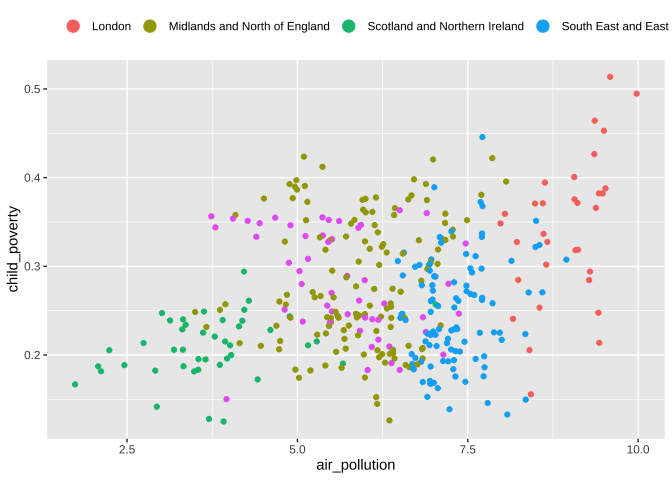
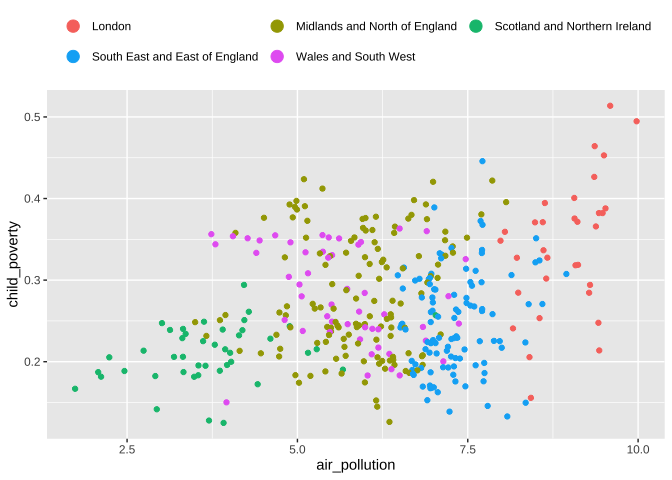
Two row legend

diff --git a/visualising-data-with-ggplot2/script.md b/visualising-data-with-ggplot2/script.md
@@ -25,6 +25,21 @@ published by [DEFRA](https://uk-air.defra.gov.uk/data/pcm-data).
 library(tidyverse)
 ```
 
+    ## ── Attaching packages ──────────────────────────────────────────── tidyverse 1.3.0 ──
+
+    ## ✓ ggplot2 3.3.6     ✓ purrr   0.3.4
+    ## ✓ tibble  3.1.6     ✓ dplyr   1.0.8
+    ## ✓ tidyr   1.2.0     ✓ stringr 1.4.0
+    ## ✓ readr   1.4.0     ✓ forcats 0.5.1
+
+    ## Warning: package 'tidyr' was built under R version 4.0.5
+
+    ## Warning: package 'dplyr' was built under R version 4.0.5
+
+    ## ── Conflicts ─────────────────────────────────────────────── tidyverse_conflicts() ──
+    ## x dplyr::filter() masks stats::filter()
+    ## x dplyr::lag()    masks stats::lag()
+
 ## Read data
 
 ``` r
@@ -98,6 +113,11 @@ df %>%
 
 ``` r
 library(sf)
+```
+
+    ## Linking to GEOS 3.8.1, GDAL 3.1.4, PROJ 6.3.1
+
+``` r
 lad <- st_read("data/local_authority_districts.geojson")
 ```
 
@@ -182,6 +202,13 @@ gg +
 
 ``` r
 library(showtext)
+```
+
+    ## Loading required package: sysfonts
+
+    ## Loading required package: showtextdb
+
+``` r
 # font_families_google() 
 font_add_google("Open Sans")
 showtext_auto()
@@ -218,7 +245,20 @@ gg +
 
 ``` r
 library(scales)
+```
 
+    ## 
+    ## Attaching package: 'scales'
+
+    ## The following object is masked from 'package:purrr':
+    ## 
+    ##     discard
+
+    ## The following object is masked from 'package:readr':
+    ## 
+    ##     col_factor
+
+``` r
 gg + scale_y_continuous(labels = percent_format(accuracy = 1),
                         limits = c(0,0.6))
 ```
@@ -261,7 +301,9 @@ gg +
   theme(legend.position = "top",
         legend.justification = "left",
         legend.key = element_blank()) +
-  guides(colour = guide_legend(override.aes = list(size = 4)))
+  guides(colour = guide_legend(
+    nrow = 2, byrow = TRUE,
+    override.aes = list(size = 4)))
 ```
 
 ![](outputs/plot16.png)<!-- -->
@@ -321,6 +363,6 @@ gg +
     visualization](https://r4ds.had.co.nz/data-visualisation.html)
 -   [A ggplot2 Tutorial for Beautiful Plotting in
     R](https://www.cedricscherer.com/2019/08/05/a-ggplot2-tutorial-for-beautiful-plotting-in-r/)
-    by CÃ©dric Scherer
+    by Cédric Scherer
 -   [BBC Visual and Data Journalism cookbook for R
     graphics](https://bbc.github.io/rcookbook/)
